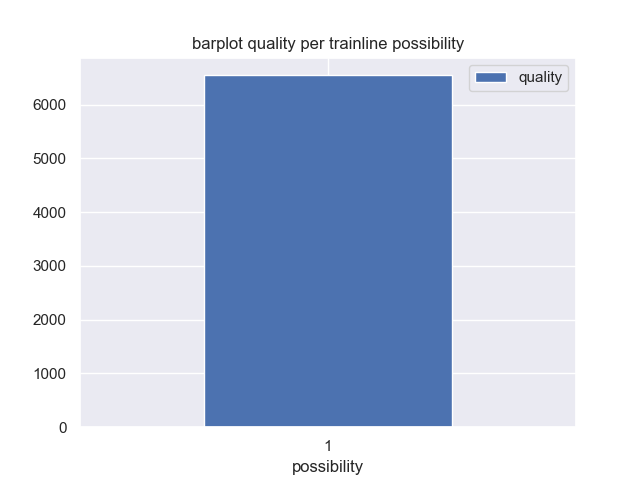
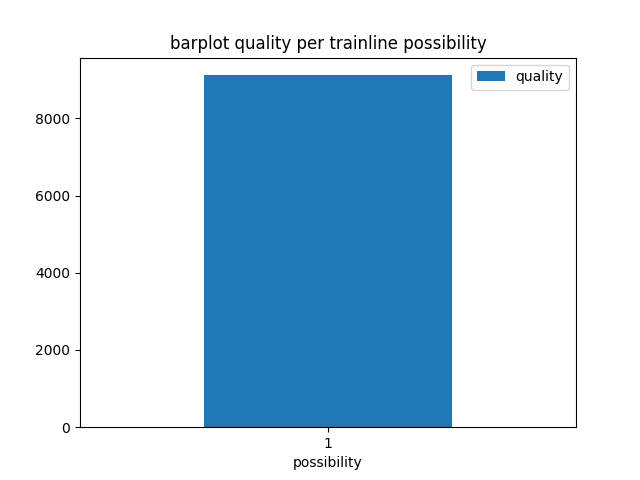
Algoritme klaar voor de Hill Climber/Simulated Annealing maar is nog een beetje lelijk

diff --git a/codes/algorithms/simulated_annealing.py b/codes/algorithms/simulated_annealing.py
@@ -31,7 +31,7 @@ class Simulated_Annealing_Rail():
         # reindex trajects
         self.reindex_trajects()
 
-        print(1)
+        return self._working_network.trajects
 
     def reindex_trajects(self):
         """
@@ -64,34 +64,62 @@ class Simulated_Annealing_Rail():
         traject_to_implement = copy.deepcopy(self._working_network.trajects[original_traject_number])
 
         # rearrange the tracks and store the sliced_out portion and set it aside
-        sliced_out = self.rearrange_tracks(original_traject_number, traject_to_implement)
+        sliced_out = self.rearrange_tracks(original_traject_number, traject_to_implement, full_traject=True)
         original_traject_number = None
 
         # keep rearranging until we don't have any sliced out bits anymore
-        # it can only do that up to 50 times
         tries = 0
-        
-        while sliced_out != None:
-            sliced_out = self.rearrange_tracks(original_traject_number, sliced_out)
-            original_traject_number = None
 
-            # check for traject too long and make it to spec
-            if sliced_out is None:
-                sliced_out, original_traject_number = self._working_network.make_traject_to_spec(self._maximum_track_time)
-            
+        self.process_slices(original_traject_number, sliced_out, tries)
+
+        # retrieve a traject that is too long
+        sliced_out, original_traject_number = self._working_network.make_traject_to_spec(self._maximum_track_time)
+
+        # keep rearranging until the traject are all within time
+        tries = 0
+
+        self.trajects_in_time(original_traject_number, sliced_out, tries)
+
+    def process_slices(self, original_traject_number, sliced_out, tries):
+        """
+        Processes slices.
+        This may be done for 100 times.
+        """
+
+        while sliced_out != None:
+            sliced_out = self.rearrange_tracks(original_traject_number, sliced_out, full_traject=False)
             tries += 1
 
-            if tries >= 50:
+            if tries == 100:
                 sliced_out = self.place_sliced_element(sliced_out)
 
-    def rearrange_tracks(self, original_traject_number, traject_to_implement):
+    def trajects_in_time(self, original_traject_number, sliced_out, tries):
+        """
+        Makes sure that all trajects are within time.
+        This may be done for 100 times.
+        """
+        
+        while sliced_out != None:
+            sliced_out = self.rearrange_tracks(original_traject_number, sliced_out, full_traject=False)
+            original_traject_number = None
+            tries += 1
+
+            # place the sliced out traject in its own traject after 100 iterations
+            if tries == 100:
+                sliced_out = self.place_sliced_element(sliced_out)
+
+            # check if there are more trajects not in time
+            if sliced_out == None:
+                sliced_out, original_traject_number = self._working_network.make_traject_to_spec(self._maximum_track_time)
+
+    def rearrange_tracks(self, original_traject_number, traject_to_implement, full_traject):
         """
         Rearanges the tracks and return the bit, if any, that has been
         sliced out.
         """
         
         # get the station_pointer (station which will be the head) and implement_traject (traject where the ) for the sliced_out bit
-        station_pointer, implement_traject = self.get_implement_traject(traject_to_implement, original_traject_number)
+        station_pointer, implement_traject = self.get_implement_traject(traject_to_implement, original_traject_number, full_traject)
         
         # remove the implement_traject from the traject_no_check since it could be used again
         self._working_network.trajects_no_check.discard(implement_traject)
@@ -140,7 +168,6 @@ class Simulated_Annealing_Rail():
         
         # clear the original traject if this is used and update the traject_duration/length and stations_set
         if original_traject_number != None:
-            self._working_network.trajects[original_traject_number].clear()
             self._working_network.update_stations_set(original_traject_number)
             self._working_network.calc_duration(original_traject_number, update=True)
         
@@ -148,7 +175,7 @@ class Simulated_Annealing_Rail():
         self._working_network.update_stations_set(implement_traject)
         self._working_network.calc_duration(implement_traject, update=True)
 
-    def get_implement_traject(self, traject_to_implement, original_traject_number):
+    def get_implement_traject(self, traject_to_implement, original_traject_number, full_traject):
         """
         Retrieves a traject where the given traject can be implemented.
         """
@@ -185,7 +212,7 @@ class Simulated_Annealing_Rail():
             implement_traject = random.choice(station_pressence)
 
             # clear the original traject if this is used
-            if original_traject_number != None:
+            if original_traject_number != None and full_traject == True:
                 self._working_network.trajects[original_traject_number].clear()
       
             return station_pointer, implement_traject
@@ -212,9 +239,10 @@ class Simulated_Annealing_Rail():
             
             # slice a bit out to make place for the new bit
             sliced_out = self._working_network.trajects[implement_traject][:index + 1]
+            left_over = self._working_network.trajects[implement_traject][index + 1:]
             
             # add the new bid to the traject
-            self._working_network.trajects[implement_traject] = old_traject + self._working_network.trajects[implement_traject][index + 1:]
+            self._working_network.trajects[implement_traject] = old_traject + left_over
         else:
             # check if the traject is in the right orientation
             if old_traject[0] != station_pointer:
@@ -222,9 +250,10 @@ class Simulated_Annealing_Rail():
             
             # slice a bit out to make place for the new bit
             sliced_out = self._working_network.trajects[implement_traject][index:]
+            left_over = self._working_network.trajects[implement_traject][:index]
             
             # add the new bid to the traject
-            self._working_network.trajects[implement_traject] = self._working_network.trajects[implement_traject][:index] + old_traject
+            self._working_network.trajects[implement_traject] = left_over + old_traject
 
         # check if the sliced out bit is only one station
         # this indicates a begin or end station and doesn't have to be stored

diff --git a/codes/classes/network.py b/codes/classes/network.py
@@ -77,11 +77,11 @@ class Network():
 
         # get the first traject which is too long
         traject_numbers = [traject for traject in self.trajects_duration 
-                             if self.trajects_duration[traject] > maximum_traject_length]
+                           if self.trajects_duration[traject] > maximum_traject_length]
 
         # return None if all trajects are to spec
         if not traject_numbers:
-            return None, None
+            return (None, None)
 
         # retrieve the first traject which is too long
         traject_number = traject_numbers[0]
@@ -89,27 +89,47 @@ class Network():
         # copy the traject
         traject = copy.deepcopy(self.trajects[traject_number])
 
-        # chooce between the front and back of the traject
-        side = random.choice(("front", "back"))
+        # chooce between the front and back of the traject to check first
+        to_reverse = random.choice([True, False])
+        sides = ["front", "back"]
 
-        # reverse the traject if it needs to go from the back
-        if side == "back":
-            traject.reverse()
+        # reverse the list if to_reverse is True
+        if to_reverse is True:
+            sides.reverse()
 
-        # retrieve the end index for a suitable traject
-        traject_duration = 0
-        
-        for index in range(len(traject[:-1])):
-            station1 = traject[index]
-            station2 = traject[index + 1]
+        for side in sides:
+            # reverse the traject if it needs to go from the back
+            if side == "back":
+                traject.reverse()
 
-            traject_duration += self.stations[station1].connections[station2]
+            # retrieve the end index for a suitable traject
+            traject_duration = 0
+            
+            for index in range(len(traject[:-1])):
+                station1 = traject[index]
+                station2 = traject[index + 1]
 
-            if traject_duration > maximum_traject_length:
-                end_index = index
+                traject_duration += self.stations[station1].connections[station2]
 
+                if traject_duration > maximum_traject_length:
+                    end_index = index
+                    
+                    # slice the parts out which are too much
+                    sliced_out = traject[end_index:]
+                    
+                    if sliced_out != None:
+                        # create the new traject
+                        self.trajects[traject_number] = traject[:end_index + 1]
+
+                        # return the sliced out portion
+                        return sliced_out, traject_number
+
+        # slice the last two sations out if a suitable solution can't be found
         # create the new traject
-        self.trajects[traject_number] = traject[:end_index]
+        last_two_index = (len(self.trajects[traject_number]) - 2)
+
+        self.trajects[traject_number] = traject[:last_two_index + 1]
+        sliced_out = traject[last_two_index:]
 
         # return the sliced out portion
-        return traject[end_index:], traject_number
+        return sliced_out, traject_number

diff --git a/main_sa_tester.py b/main_sa_tester.py
@@ -7,6 +7,7 @@ algorithm for the RAILNL problem
 """
 
 import os
+import pandas as pd
 
 from pathlib import Path
 from codes.trials.line_quality import score_calculation
@@ -21,7 +22,20 @@ PATH = Path(os.path.dirname(os.path.realpath(__file__)))
 def main():
     graph = Graph(PATH / "data" / "StationsHolland.csv", PATH / "data" / "ConnectiesHolland.csv")
     trajects = Network(PATH / "data" / "Holland_Output" / "output.csv", graph.stations)
-    Simulated_Annealing_Rail(trajects, 120, 7, 500).run()
+    
+    trajects = Simulated_Annealing_Rail(trajects, 120, 7, 500).run()
+
+    # calculate the quality of the trajects
+    quality = score_calculation([trajects], PATH)
+    
+    # write the data to a csv file
+    trajects = {traject:f"[{', '.join(trajects[traject])}]" for traject in trajects}
+
+    output_data = pd.DataFrame.from_dict(trajects, orient="index")
+    output_data.reset_index(level=0, inplace=True)
+    output_data.columns = ["train", "stations"]
+    output_data = output_data.append({"train":"score", "stations": quality["quality"][0]}, ignore_index=True)
+    output_data.to_csv(PATH / "data" / "output_hc_2.csv", index=False)
 
 
 if __name__ == "__main__":

diff --git a/codes/trials/line_quality.py b/codes/trials/line_quality.py
@@ -37,7 +37,7 @@ test_cases = [
 ]
 
 def score_calculation(trajects, path):
-    connections = load_connections(path / "data" / "ConnectiesNationaal.csv")
+    connections = load_connections(path / "data" / "ConnectiesHolland.csv")
     
     # create list to store dictionaries that contain possibility and quality
     dataframe_rows = []
